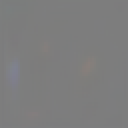
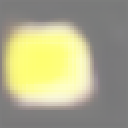
lowered the latent space size in order to force the features from the latent space not to learn the shape and the color, but only the position and the size of the object

diff --git a/src/networks/cvae_bn_one_small_smallerlatent.py b/src/networks/cvae_bn_one_small_smallerlatent.py
@@ -14,30 +14,30 @@ class Encoder(nn.Module):
         self.conv_encoder = nn.Sequential(
             nn.Conv2d(3, 32, kernel_size=3, stride=1, padding='same'),
             nn.BatchNorm2d(32),
-            nn.ReLU(),
+            nn.PReLU(),
+            nn.MaxPool2d(2),
+            nn.Conv2d(32, 32, kernel_size=3, stride=1, padding='same'), 
+            nn.BatchNorm2d(32),
+            nn.PReLU(),
+            nn.MaxPool2d(2),
+            nn.Conv2d(32, 32, kernel_size=3, stride=1, padding='same'),
+            nn.BatchNorm2d(32),
+            nn.PReLU(),
             nn.MaxPool2d(2),
             nn.Conv2d(32, 64, kernel_size=3, stride=1, padding='same'), 
             nn.BatchNorm2d(64),
-            nn.ReLU(),
-            nn.MaxPool2d(2),
-            nn.Conv2d(64, 128, kernel_size=3, stride=1, padding='same'),
-            nn.BatchNorm2d(128),
-            nn.ReLU(),
-            nn.MaxPool2d(2),
-            nn.Conv2d(128, 256, kernel_size=3, stride=1, padding='same'), 
-            nn.BatchNorm2d(256),
-            nn.ReLU(),
+            nn.PReLU(),
             nn.MaxPool2d(2),
         )
         self.linear_encoder = nn.Sequential(
             #nn.Linear(256 * 8 * 8 + condition_embedding_size, 512), # ****  de ce nu sunt bune dimensiunile?
-            nn.Linear(16390, 512),
-            nn.BatchNorm1d(512),
-            nn.ReLU(),
+            nn.Linear(4102, 64),
+            nn.BatchNorm1d(64),
+            nn.PReLU(),
         )
 
-        self.fc_m = nn.Linear(512, latent_dim)  # Mean
-        self.fc_log_v = nn.Linear(512, latent_dim)  # Log variance
+        self.fc_m = nn.Linear(64, latent_dim)  # Mean
+        self.fc_log_v = nn.Linear(64, latent_dim)  # Log variance
 
     def forward(self, image, condition):
         # 1) Pass the image through the conv encoder
@@ -63,29 +63,31 @@ class Decoder(nn.Module):
         self.final_layer = F.sigmoid
 
         self.conv_decoder = nn.Sequential(
-        nn.ConvTranspose2d(256, 128, kernel_size=3, stride=1, padding=1), # 8x8 -> 16x16
-        nn.BatchNorm2d(128),
-        nn.ReLU(),
-        nn.Upsample(scale_factor=2, mode='nearest'),
-        nn.ConvTranspose2d(128, 64, kernel_size=3, stride=1, padding=1),  # 16x16 -> 32x32
+        nn.ConvTranspose2d(128, 64, kernel_size=3, stride=1, padding=1), # 8x8 -> 16x16
         nn.BatchNorm2d(64),
-        nn.ReLU(),
+        nn.PReLU(),
         nn.Upsample(scale_factor=2, mode='nearest'),
-        nn.ConvTranspose2d(64, 32, kernel_size=3, stride=1, padding=1),   # 32x32 -> 64x64
+        nn.ConvTranspose2d(64, 32, kernel_size=3, stride=1, padding=1),  # 16x16 -> 32x32
         nn.BatchNorm2d(32),
-        nn.ReLU(),
+        nn.PReLU(),
+        nn.Upsample(scale_factor=2, mode='nearest'),
+        nn.ConvTranspose2d(32, 32, kernel_size=3, stride=1, padding=1),   # 32x32 -> 64x64
+        nn.BatchNorm2d(32),
+        nn.PReLU(),
         nn.Upsample(scale_factor=2, mode='nearest'),
         nn.ConvTranspose2d(32, 3, kernel_size=3, stride=1, padding=1),    # 64x64 -> 128x128
-        nn.ReLU(),
+        nn.BatchNorm2d(3),
+        nn.PReLU(),
+        nn.Upsample(scale_factor=2, mode='nearest'),
         )
         self.linear_decoder = nn.Sequential(
             #nn.Linear(latent_dim + condition_embedding_size, 512), # **** why it doesn tworK?
-            nn.Linear(38, 512), # **** why it doesn tworK?
-            nn.BatchNorm1d(512),
-            nn.ReLU(),
-            nn.Linear(512, 256 * 8 * 8),
-            nn.BatchNorm1d(256 * 8 * 8),
-            nn.ReLU(),
+            nn.Linear(latent_dim + condition_embedding_size, 128), # **** why it doesn tworK?
+            nn.BatchNorm1d(128),
+            nn.PReLU(),
+            nn.Linear(128, 128 * 8 * 8),
+            nn.BatchNorm1d(128 * 8 * 8),
+            nn.PReLU(),
         )
 
     def forward(self, z, condition):
@@ -96,7 +98,7 @@ class Decoder(nn.Module):
         x = self.linear_decoder(z)
 
         # 3) reshape the lienar features to the propper 2D image shape
-        x = x.view(x.size(0), 256, 8, 8)
+        x = x.view(x.size(0), 128, 8, 8)
 
         # 4) Pass the latent space ythrough the decoder
         x = self.conv_decoder(x)
@@ -109,7 +111,7 @@ class Decoder(nn.Module):
 
 class CVAE(nn.Module):
 
-    def __init__(self, shape_vocab_size=4, color_vocab_size=4, condition_embedding_size=6, hidden_size=16, latent_dim=32, device='cuda'):
+    def __init__(self, shape_vocab_size=4, color_vocab_size=4, condition_embedding_size=6, hidden_size=16, latent_dim=16, device='cuda'):
         super().__init__()
 
         #self.conditional_embedder = ShapeEmbeddingRNN(shape_vocab_size, color_vocab_size, condition_embedding_size, hidden_size)
@@ -117,6 +119,7 @@ class CVAE(nn.Module):
 
         self.encoder = Encoder(condition_embedding_size, latent_dim)
         self.decoder = Decoder(condition_embedding_size, latent_dim)
+        self.latent_dim = latent_dim
         self.device = device
 
     def one_hot_embeddings(self, tensor):
@@ -160,7 +163,7 @@ class CVAE(nn.Module):
     
     def decode(self, conditioning_vector):
 
-        z = torch.randn(1, 32).to(self.device)
+        z = torch.randn(1, self.latent_dim).to(self.device)
 
         conditioning_embedding = self.one_hot_embeddings(conditioning_vector).to('cuda')
 

diff --git a/src/inference.py b/src/inference.py
@@ -1,12 +1,13 @@
 import torch
 import cv2
 #from networks.cvae_bn_one_old import CVAE
-from networks.cvae_bn_one_small import CVAE
+#from networks.cvae_bn_one_small import CVAE
+from networks.cvae_bn_one_small_smallerlatent import CVAE
 import numpy as np
 import torch.nn.functional as F
 
-seed = 42
-torch.manual_seed(seed)
+#seed = 42 # to try: 42, 41, 45
+#torch.manual_seed(seed)
 
 #padded_conditioning_vectors = [0, 1, 0, 1, 1, 1, 2, 2, 2, 2, 2, 2]
 #padded_conditioning_vectors = [0, 1, 0, 1, 1, 1, 2, 2, 2, 2, 2, 2]
@@ -14,13 +15,16 @@ torch.manual_seed(seed)
 #padded_conditioning_vectors = [2, 2, 2, 2, -1, -1, -1, -1, -1, -1, -1, -1]
 #padded_conditioning_vectors = [0, 1, -1, -1, -1, -1, -1, -1, -1, -1, -1, -1]
 
-
+seed = 42 # to try: 42, 41, 45
+torch.manual_seed(seed)
 #padded_conditioning_vectors = [[0, 0]] # red square
 #padded_conditioning_vectors = [[0, 1]] # blue square
 #padded_conditioning_vectors = [[0, 2]] # green square
 #padded_conditioning_vectors = [[0, 3]] # yellow square
 
-#padded_conditioning_vectors = [[0, 3]] # yellow square
+seed = 41 # to try: 41
+torch.manual_seed(seed)
+padded_conditioning_vectors = [[0, 3]] # yellow square
 #padded_conditioning_vectors = [[1, 3]] # yellow circle
 #padded_conditioning_vectors = [[2, 3]] # yellow triangle
 #padded_conditioning_vectors = [[3, 3]] # yellow hexagon
@@ -29,7 +33,7 @@ torch.manual_seed(seed)
 device = 'cuda'
 
 model = CVAE().to(device)
-model.load_state_dict(torch.load('weights/model_weights_epoch_0_almost_works_small_PRELU_beta_0,1.pth'))
+model.load_state_dict(torch.load('weights/model_weights_epoch_0_almost_works_smallerlatent.pth'))
 model.eval()
 
 

diff --git a/src/train.py b/src/train.py
@@ -9,7 +9,8 @@
 import torch
 from torch.utils.data import random_split
 from dataset import ShapeDataset, custom_collate_fn
-from networks.cvae_bn_one_small import CVAE
+from networks.cvae_bn_one_small_smallerlatent import CVAE
+#from networks.cvae_bn_one_small import CVAE
 #from networks.cvae_bn_one_old import CVAE
 import numpy as np
 from loss import loss_function
@@ -28,11 +29,11 @@ torch.manual_seed(seed)
 device  ='cuda'
 model = CVAE()
 # LOAD STATE DICT IF NEEDED
-model.load_state_dict(torch.load('weights/model_weights_epoch_0_almost_works_small_PRELU_beta_1.pth'))
+#model.load_state_dict(torch.load('weights/model_weights_epoch_0_almost_works_small_PRELU_beta_1.pth'))
 #model.load_state_dict(torch.load('weights/model_weights_epoch_55_it_begins_to_work.pth'))
 num_epochs = 300
-#beta = 1
-beta = 0.1
+beta = 1
+#beta = 0.1
 #lr = 0.000001
 #lr = 0.001 # THIS WAS ALMOST WORKING
 lr = 0.001

diff --git a/src/networks/cvae_bn_one_small.py b/src/networks/cvae_bn_one_small.py
@@ -56,7 +56,7 @@ class Encoder(nn.Module):
 
 
 class Decoder(nn.Module):
-    def __init__(self, condition_embedding_size=16, latent_dim=32):
+    def __init__(self, condition_embedding_size=6, latent_dim=32):
         super().__init__()
         self.condition_embedding_size = condition_embedding_size
         self.latent_dim = latent_dim
@@ -111,7 +111,7 @@ class Decoder(nn.Module):
 
 class CVAE(nn.Module):
 
-    def __init__(self, shape_vocab_size=4, color_vocab_size=4, condition_embedding_size=16, hidden_size=16, latent_dim=32, device='cuda'):
+    def __init__(self, shape_vocab_size=4, color_vocab_size=4, condition_embedding_size=6, hidden_size=16, latent_dim=32, device='cuda'):
         super().__init__()
 
         #self.conditional_embedder = ShapeEmbeddingRNN(shape_vocab_size, color_vocab_size, condition_embedding_size, hidden_size)
